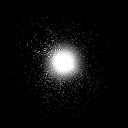
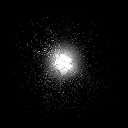
src, media: more particle tweaks

Changed region(s): [[0.3438, 0.375, 0.625, 0.6562]]

diff --git a/src/engine/renderparticles.cpp b/src/engine/renderparticles.cpp
@@ -859,8 +859,8 @@ static partrenderer *parts[] =
     new quadrenderer("media/particle/base.png",  PT_PART|PT_FLIP|PT_BRIGHT),                   // edit mode entities
     new quadrenderer("media/particle/snow.png", PT_PART|PT_FLIP|PT_RND4, -1),                  // colliding snow
     new quadrenderer("media/particle/muzzleflash1.jpg", PT_PART|PT_FEW|PT_FLIP|PT_BRIGHT|PT_TRACK), // muzzle flash
-    new quadrenderer("media/particle/muzzleflash2.jpg", PT_PART|PT_FEW|PT_FLIP|PT_BRIGHT|PT_TRACK), // muzzle flash
-    new quadrenderer("media/particle/muzzleflash3.jpg", PT_PART|PT_FEW|PT_FLIP|PT_BRIGHT|PT_TRACK), // muzzle flash
+    new quadrenderer("media/particle/pulse_muzzle.png", PT_PART|PT_FEW|PT_FLIP|PT_BRIGHT|PT_TRACK), // muzzle flash
+    new quadrenderer("media/particle/rail_muzzle.png", PT_PART|PT_FEW|PT_FLIP|PT_BRIGHT|PT_TRACK), // muzzle flash
     new quadrenderer("media/interface/hud/items.png", PT_PART|PT_FEW|PT_ICON),                 // hud icon
     new quadrenderer("<colorify:1/1/1>media/interface/hud/items.png", PT_PART|PT_FEW|PT_ICON), // grey hud icon
     &texts,                                                                                    // text

diff --git a/src/game/weapon.cpp b/src/game/weapon.cpp
@@ -513,7 +513,7 @@ namespace game
         {
             case ATK_PULSE_SHOOT:
                 if(muzzleflash && d->muzzle.x >= 0)
-                    particle_flare(d->muzzle, d->muzzle, 250, PART_MUZZLE_FLASH2, 0xFFFFFF, 3.0f, d);
+                    particle_flare(d->muzzle, d->muzzle, 250, PART_MUZZLE_FLASH2, 0x50CFE5, 3.0f, d);
                 newprojectile(from, to, attacks[atk].projspeed, local, id, d, atk);
                 break;
 
@@ -521,7 +521,7 @@ namespace game
                 particle_splash(PART_SPARK, 200, 250, to, 0x50CFE5, 0.45f);
                 particle_flare(hudgunorigin(gun, from, to, d), to, 500, PART_RAIL_TRAIL, 0x50CFE5, 0.5f);
                 if(muzzleflash && d->muzzle.x >= 0)
-                    particle_flare(d->muzzle, d->muzzle, 150, PART_MUZZLE_FLASH3, 0xFFFFFF, 1.25f, d);
+                    particle_flare(d->muzzle, d->muzzle, 150, PART_MUZZLE_FLASH3, 0x50CFE5, 1.25f, d);
                 if(!local) raildecal(from, to);
                 if(muzzlelight) adddynlight(hudgunorigin(gun, d->o, to, d), 35, vec(0.25f, 0.75f, 1.00f), 75, 75, DL_FLASH, 0, vec(0, 0, 0), d);
                 break;
